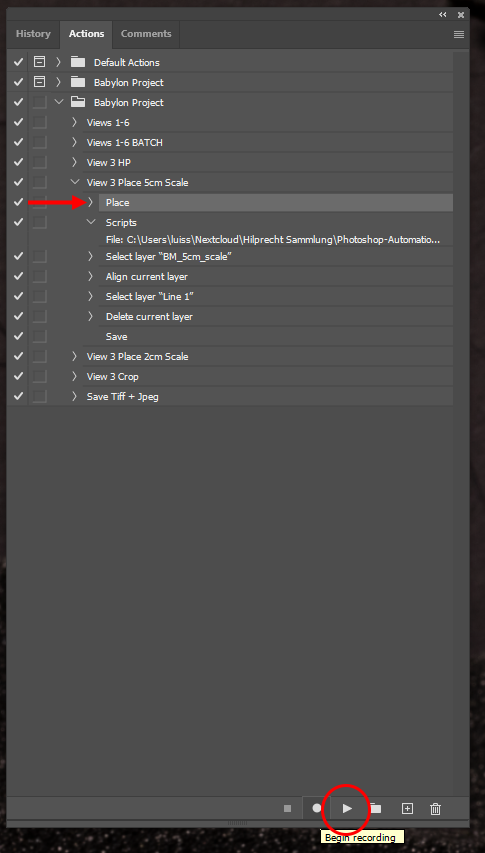
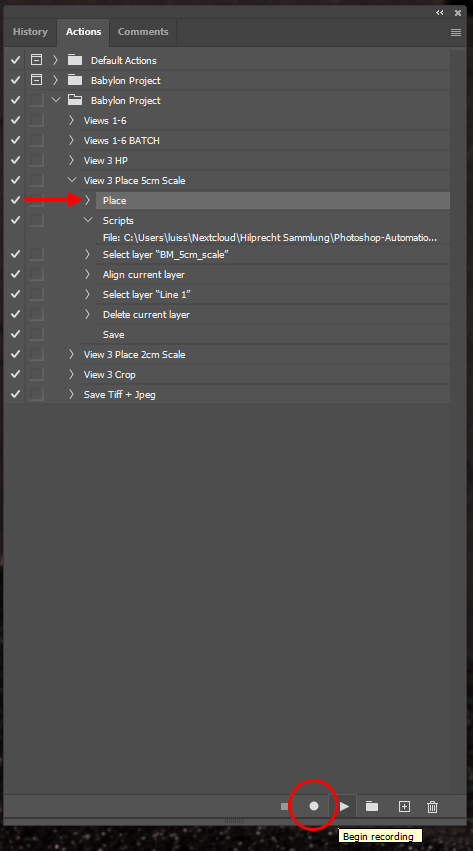
update tutorial figures

diff --git a/_site/pages/How to Annotate Cuneiform Texts.html b/_site/pages/How to Annotate Cuneiform Texts.html
@@ -635,7 +635,7 @@ your language by searching GitHub and getting guidance from them.</p>
     <p>Hosted on
       <a href="https://github.com/DigitalPasts/openDANES" target="_blank">Github Pages</a>
     </p>
-    <p>Last updated on April 25, 2025</p>
+    <p>Last updated on April 28, 2025</p>
   </div>
   
 </footer>

diff --git a/_site/pages/Assembling Photographed Views of Cuneiform Tablets with Photoshop.html b/_site/pages/Assembling Photographed Views of Cuneiform Tablets with Photoshop.html
@@ -1199,7 +1199,7 @@
     <p>Hosted on
       <a href="https://github.com/DigitalPasts/openDANES" target="_blank">Github Pages</a>
     </p>
-    <p>Last updated on April 25, 2025</p>
+    <p>Last updated on April 28, 2025</p>
   </div>
   
 </footer>

diff --git a/_site/index.html b/_site/index.html
@@ -112,7 +112,7 @@
     <p>Hosted on
       <a href="https://github.com/DigitalPasts/openDANES" target="_blank">Github Pages</a>
     </p>
-    <p>Last updated on April 25, 2025</p>
+    <p>Last updated on April 28, 2025</p>
   </div>
   
 </footer>

diff --git a/_site/nav/DANES-resources.html b/_site/nav/DANES-resources.html
@@ -177,7 +177,7 @@
     <p>Hosted on
       <a href="https://github.com/DigitalPasts/openDANES" target="_blank">Github Pages</a>
     </p>
-    <p>Last updated on April 25, 2025</p>
+    <p>Last updated on April 28, 2025</p>
   </div>
   
 </footer>

diff --git a/_site/nav/about.html b/_site/nav/about.html
@@ -140,7 +140,7 @@
     <p>Hosted on
       <a href="https://github.com/DigitalPasts/openDANES" target="_blank">Github Pages</a>
     </p>
-    <p>Last updated on April 25, 2025</p>
+    <p>Last updated on April 28, 2025</p>
   </div>
   
 </footer>

diff --git a/_site/nav/posters.html b/_site/nav/posters.html
@@ -276,7 +276,7 @@
     <p>Hosted on
       <a href="https://github.com/DigitalPasts/openDANES" target="_blank">Github Pages</a>
     </p>
-    <p>Last updated on April 25, 2025</p>
+    <p>Last updated on April 28, 2025</p>
   </div>
   
 </footer>

diff --git a/_site/nav/search.html b/_site/nav/search.html
@@ -133,7 +133,7 @@
     <p>Hosted on
       <a href="https://github.com/DigitalPasts/openDANES" target="_blank">Github Pages</a>
     </p>
-    <p>Last updated on April 25, 2025</p>
+    <p>Last updated on April 28, 2025</p>
   </div>
   
 </footer>

diff --git a/_site/nav/submission-guidelines.html b/_site/nav/submission-guidelines.html
@@ -299,7 +299,7 @@
     <p>Hosted on
       <a href="https://github.com/DigitalPasts/openDANES" target="_blank">Github Pages</a>
     </p>
-    <p>Last updated on April 25, 2025</p>
+    <p>Last updated on April 28, 2025</p>
   </div>
   
 </footer>

diff --git a/_site/nav/tutorials.html b/_site/nav/tutorials.html
@@ -253,7 +253,7 @@
     <p>Hosted on
       <a href="https://github.com/DigitalPasts/openDANES" target="_blank">Github Pages</a>
     </p>
-    <p>Last updated on April 25, 2025</p>
+    <p>Last updated on April 28, 2025</p>
   </div>
   
 </footer>

diff --git a/_site/nav/white-papers.html b/_site/nav/white-papers.html
@@ -309,7 +309,7 @@
     <p>Hosted on
       <a href="https://github.com/DigitalPasts/openDANES" target="_blank">Github Pages</a>
     </p>
-    <p>Last updated on April 25, 2025</p>
+    <p>Last updated on April 28, 2025</p>
   </div>
   
 </footer>

diff --git a/_site/pages/Digital Ancient Near Eastern Studies - A Transition to Arts and Crafts.html b/_site/pages/Digital Ancient Near Eastern Studies - A Transition to Arts and Crafts.html
@@ -696,7 +696,7 @@
     <p>Hosted on
       <a href="https://github.com/DigitalPasts/openDANES" target="_blank">Github Pages</a>
     </p>
-    <p>Last updated on April 25, 2025</p>
+    <p>Last updated on April 28, 2025</p>
   </div>
   
 </footer>

diff --git a/_site/pages/Interview with Nepos Games about their game Nebuchadnezzar.html b/_site/pages/Interview with Nepos Games about their game Nebuchadnezzar.html
@@ -332,7 +332,7 @@
     <p>Hosted on
       <a href="https://github.com/DigitalPasts/openDANES" target="_blank">Github Pages</a>
     </p>
-    <p>Last updated on April 25, 2025</p>
+    <p>Last updated on April 28, 2025</p>
   </div>
   
 </footer>
